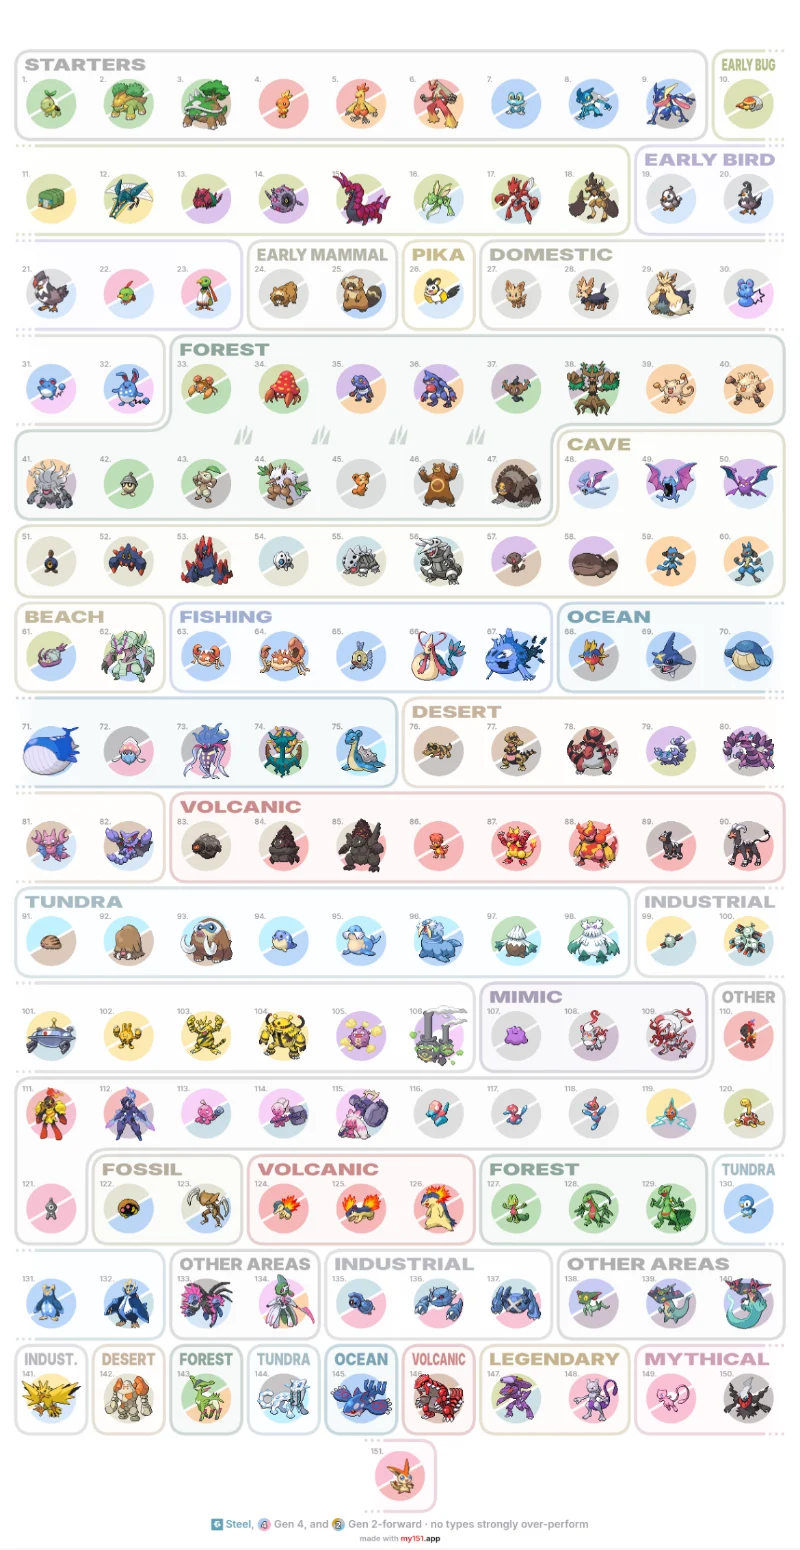
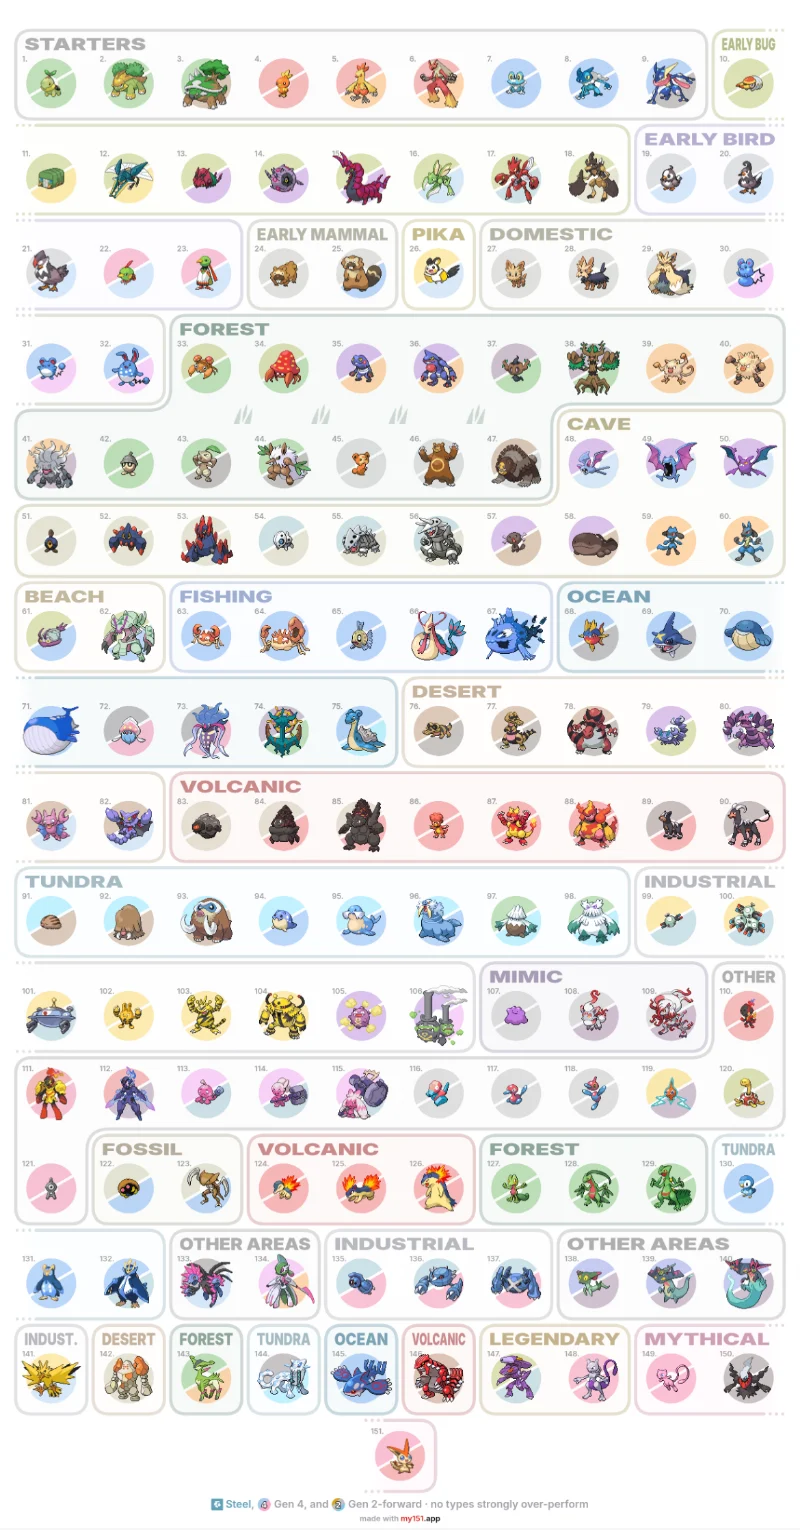
fix(home): halve the shots' top band, and prove no ink falls in the corner
2.5% of the width rather than 5%. That is 20px on an 800px shot, which puts
the card's corner curve 30px in from the left where the content starts —
inside the margin all four images already carry.

The capture now measures that instead of trusting the arithmetic: it reads
the pixels the curve would cut against the radius the card rounds at, and
refuses to write an asset with ink inside it. Ink, not every pixel — the dex
export's top-right section outline is a pale hairline the curve grazes by
three pixels, 0.4 of a pixel at the card's phone size. With the band at zero
the run stops on the first shot.

diff --git a/src/components/home/HomePage.tsx b/src/components/home/HomePage.tsx
@@ -50,7 +50,8 @@ const BLEED = U(34);
  * of a phone screen, so its corners should read as that phone's. An iPhone 14
  * rounds 47.3pt on a 390pt screen. The radius is applied here rather than baked
  * into the asset, so one flat rectangle serves the 110px phone card and the
- * 263px desktop card alike.
+ * 263px desktop card alike. `capture-shots.mjs` keeps the same number and
+ * refuses to write an asset with ink inside this curve.
  */
 const PHONE_RADIUS = 0.121;
 

diff --git a/docs/future-tools/home-page/README.md b/docs/future-tools/home-page/README.md
@@ -175,11 +175,16 @@ card clips every shot well above there in any case.
 ### The band at the top
 
 The card rounds each shot's corners at a phone's radius, and that curve eats
-into the first rows of pixels: 18px down an 800px-wide shot the curve is still
-41px in from the left, which is exactly where the dex's first section label
-starts. Every shot gets a band of 5% of its width above it, in its own top-left
-colour — the page's grey on the analytics shot, the card's frame on the trainer
-card export. Sampled rather than named, so a change to either colour follows.
+into the first rows of pixels. Every shot gets a band of 2.5% of its width above
+it, in its own top-left colour — the page's grey on the analytics shot, the
+card's frame on the trainer card export. Sampled rather than named, so a change
+to either colour follows.
+
+The script then refuses to write an asset with ink inside that curve, reading
+the pixels the curve would cut against the radius the card rounds at. Ink, not
+every pixel: the dex export's top-right section outline is a pale hairline the
+curve grazes by three pixels, which is 0.4 of a pixel at the card's phone size.
+Drop `PAD` to zero and the run stops on the first shot.
 
 ### The league shots' state
 
